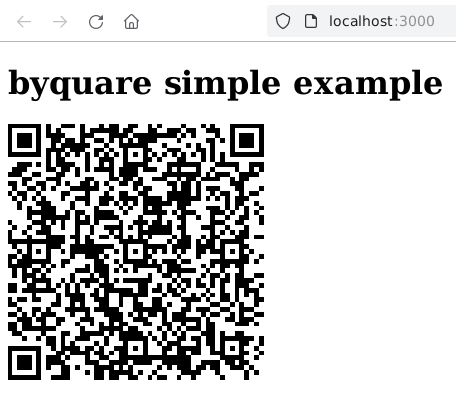
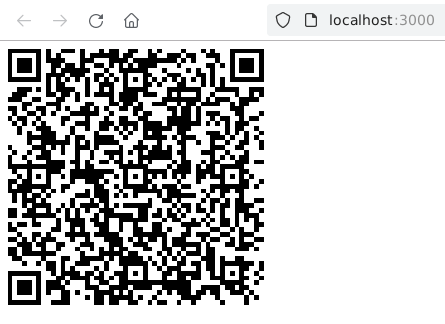
Update example

diff --git a/examples/express/server.js b/examples/express/server.js
@@ -1,5 +1,6 @@
 const { generate } = require("bysquare");
 const express = require("express");
+
 const app = express();
 
 const model = {
@@ -19,6 +20,6 @@ app.get("/qr", async (_req, res) => {
 });
 
 const port = 3_000;
-app.listen(3_000, () => {
+app.listen(port, () => {
     console.log(`Example app listening at http://localhost:${port}`);
 });

diff --git a/examples/express/public/index.html b/examples/express/public/index.html
@@ -1,7 +1,6 @@
 <!DOCTYPE html>
 <html>
     <body>
-        <h1>byquare simple example</h1>
         <div id="qrcode"></div>
     </body>
     <script src="qrcodejs.min.js"></script>
